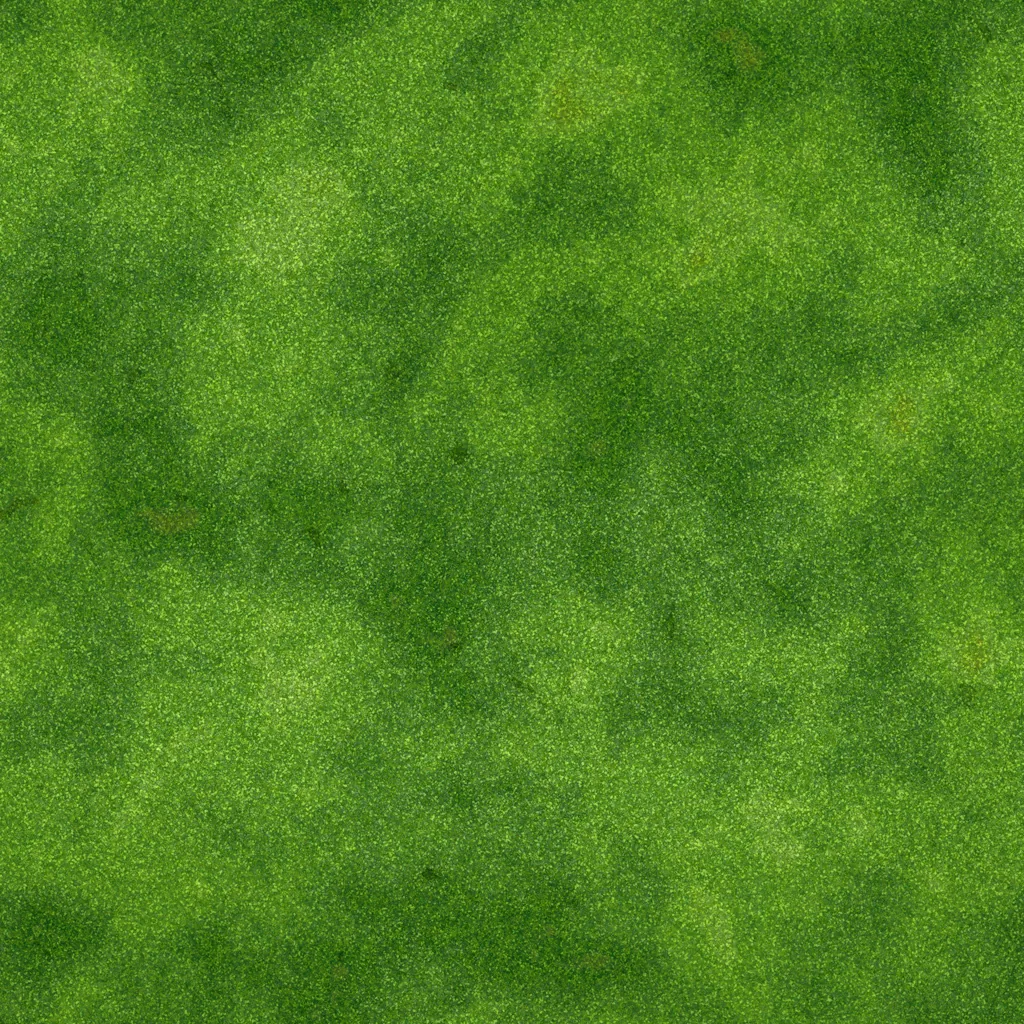
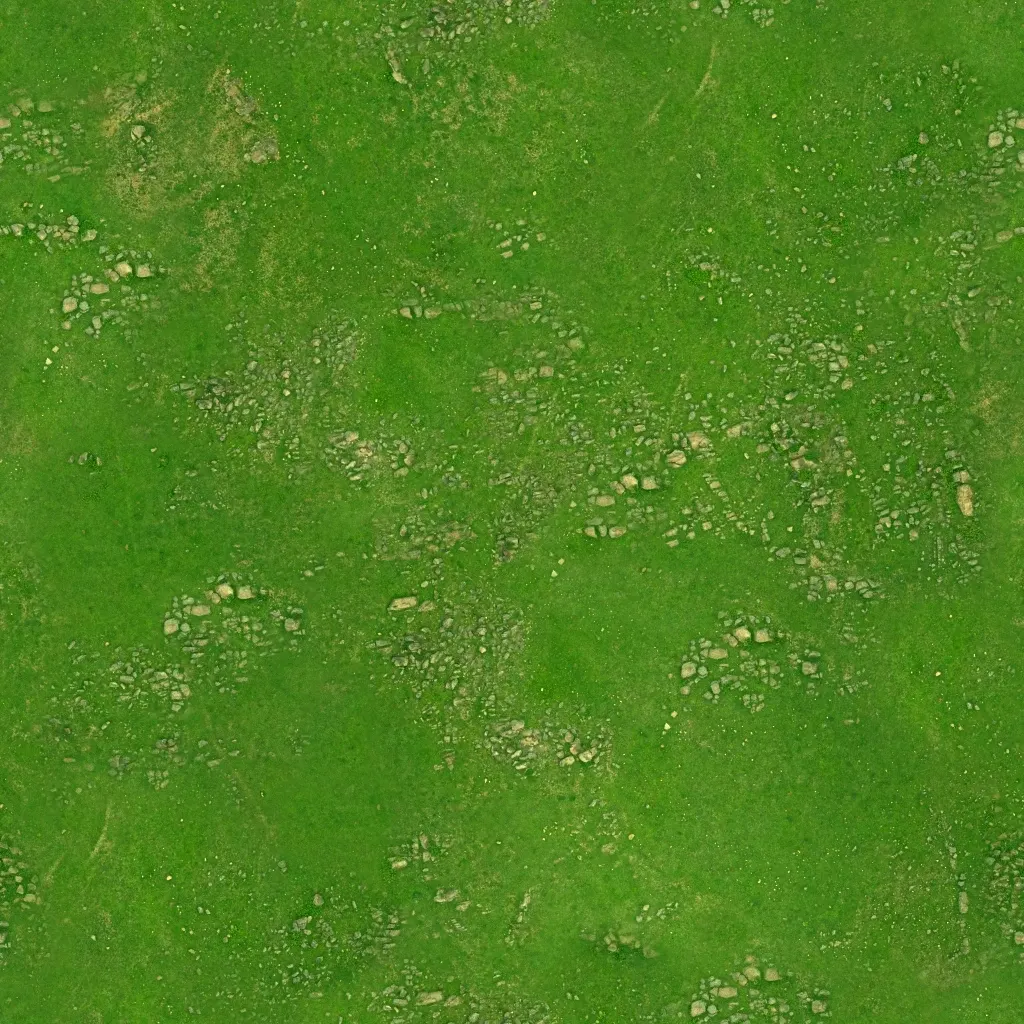
Suelos y muros CC0 de Poly Haven con la paleta de cada zona; créditos actualizados
- 13 texturas de suelo y muro y 7 de relieve de Poly Haven (CC0), igualadas en color a las anteriores para que cada zona conserve su paleta. Pesan menos que antes (3,5 MB).
- Créditos de la pantalla de inicio: Quaternius, KayKit y Poly Haven (CC0) y lo hecho para NOX.

Claude-Session: https://claude.ai/code/session_016ov4yr3yts6NKqEtADwHKy

diff --git a/public/jugar/index.html b/public/jugar/index.html
@@ -729,7 +729,7 @@ img.ico.i-epic{filter:drop-shadow(0 0 5px rgba(164,82,255,1)) drop-shadow(0 0 2p
 </g></svg><div class="slogan">Cuando cae la noche, nacen las leyendas.</div><p>Un MMORPG de aventuras en el Paraguay medieval. Elegí tu clase, repartí tus puntos, mejorá tu equipo con gemas y enfrentá a los siete hijos de Tau y Kerana.</p></div>
   <div id="acctBar"></div>
   <div id="selBody"></div>
-  <div class="credits">Personajes, bestias, animaciones, sonidos y música: arte de <a href="https://play0ad.com" target="_blank" rel="noopener">0 A.D.</a> © Wildfire Games, licencia <a href="https://creativecommons.org/licenses/by-sa/3.0/" target="_blank" rel="noopener">CC BY-SA 3.0</a> (adaptado: texturas y colores modificados). Mascotas y monstruos nuevos: Ultimate Monsters y Ultimate Animated Animals de <a href="https://quaternius.com" target="_blank" rel="noopener">Quaternius</a> y Skeletons de <a href="https://kaylousberg.com" target="_blank" rel="noopener">KayKit</a> (CC0); hada de <a href="https://github.com/Hankx-Studio/wish-weaver" target="_blank" rel="noopener">Wish Weaver</a> © 2026 Chengyang Tu y Hongyang Xu, licencia MIT (simplificada).</div>
+  <div class="credits">Personajes, ropa, pelo, animaciones, armas, animales y monstruos de <a href="https://quaternius.com" target="_blank" rel="noopener">Quaternius</a> y <a href="https://kaylousberg.com" target="_blank" rel="noopener">KayKit</a>; suelos de <a href="https://polyhaven.com" target="_blank" rel="noopener">Poly Haven</a>: todo CC0 (dominio público). Caras, armaduras, jeguaka, yvyra'i y bastones hechos para NOX. Bestias de forja, sonidos y música: arte de <a href="https://play0ad.com" target="_blank" rel="noopener">0 A.D.</a> © Wildfire Games, licencia <a href="https://creativecommons.org/licenses/by-sa/3.0/" target="_blank" rel="noopener">CC BY-SA 3.0</a> (adaptado: texturas y colores modificados). Mascotas y monstruos nuevos: Ultimate Monsters y Ultimate Animated Animals de <a href="https://quaternius.com" target="_blank" rel="noopener">Quaternius</a> y Skeletons de <a href="https://kaylousberg.com" target="_blank" rel="noopener">KayKit</a> (CC0); hada de <a href="https://github.com/Hankx-Studio/wish-weaver" target="_blank" rel="noopener">Wish Weaver</a> © 2026 Chengyang Tu y Hongyang Xu, licencia MIT (simplificada).</div>
 </div></div>
 <div id="fade"></div>
 
